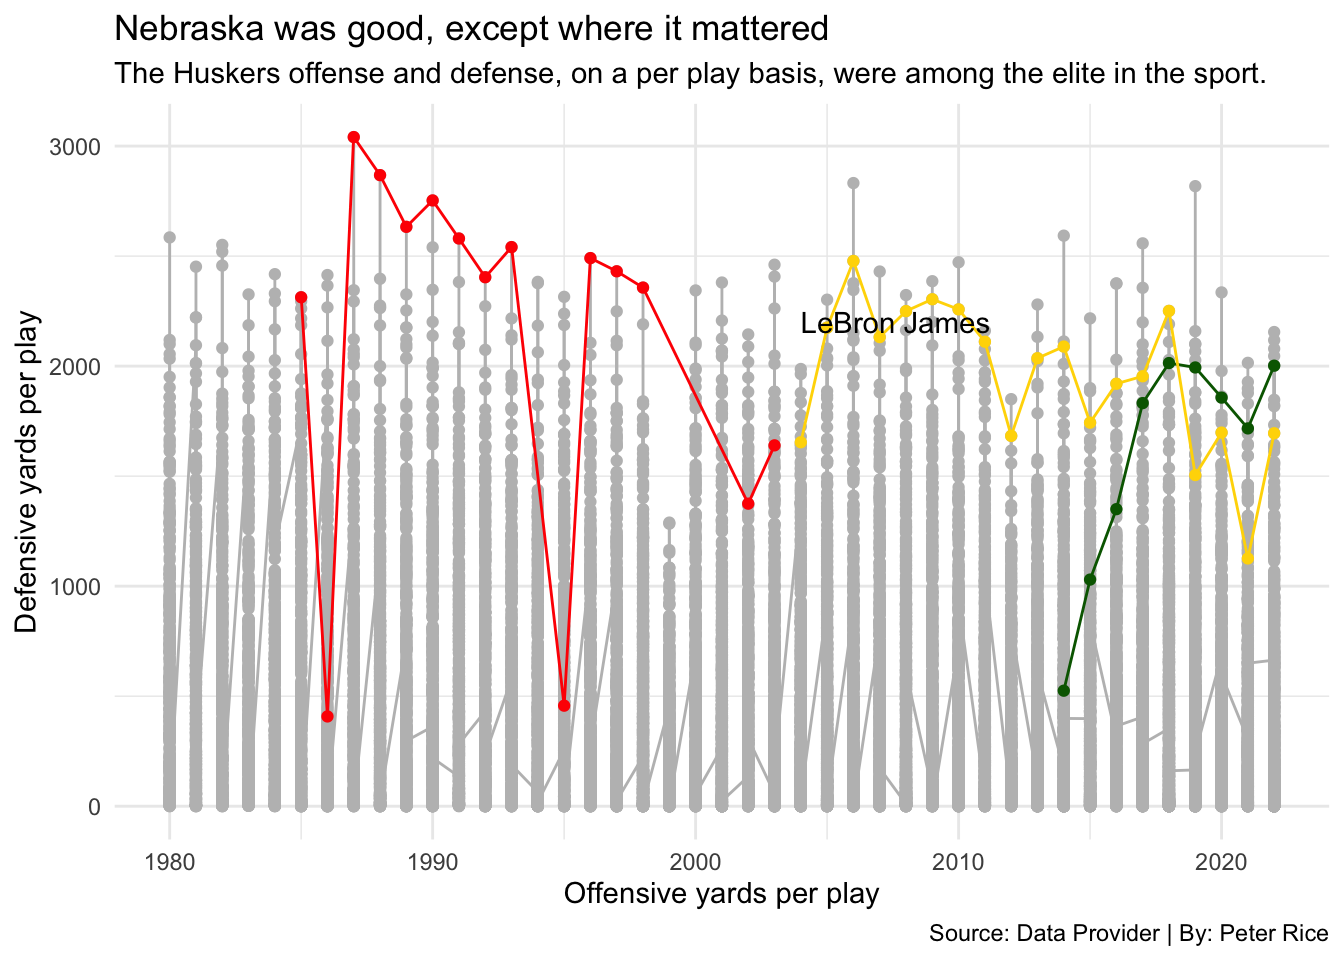
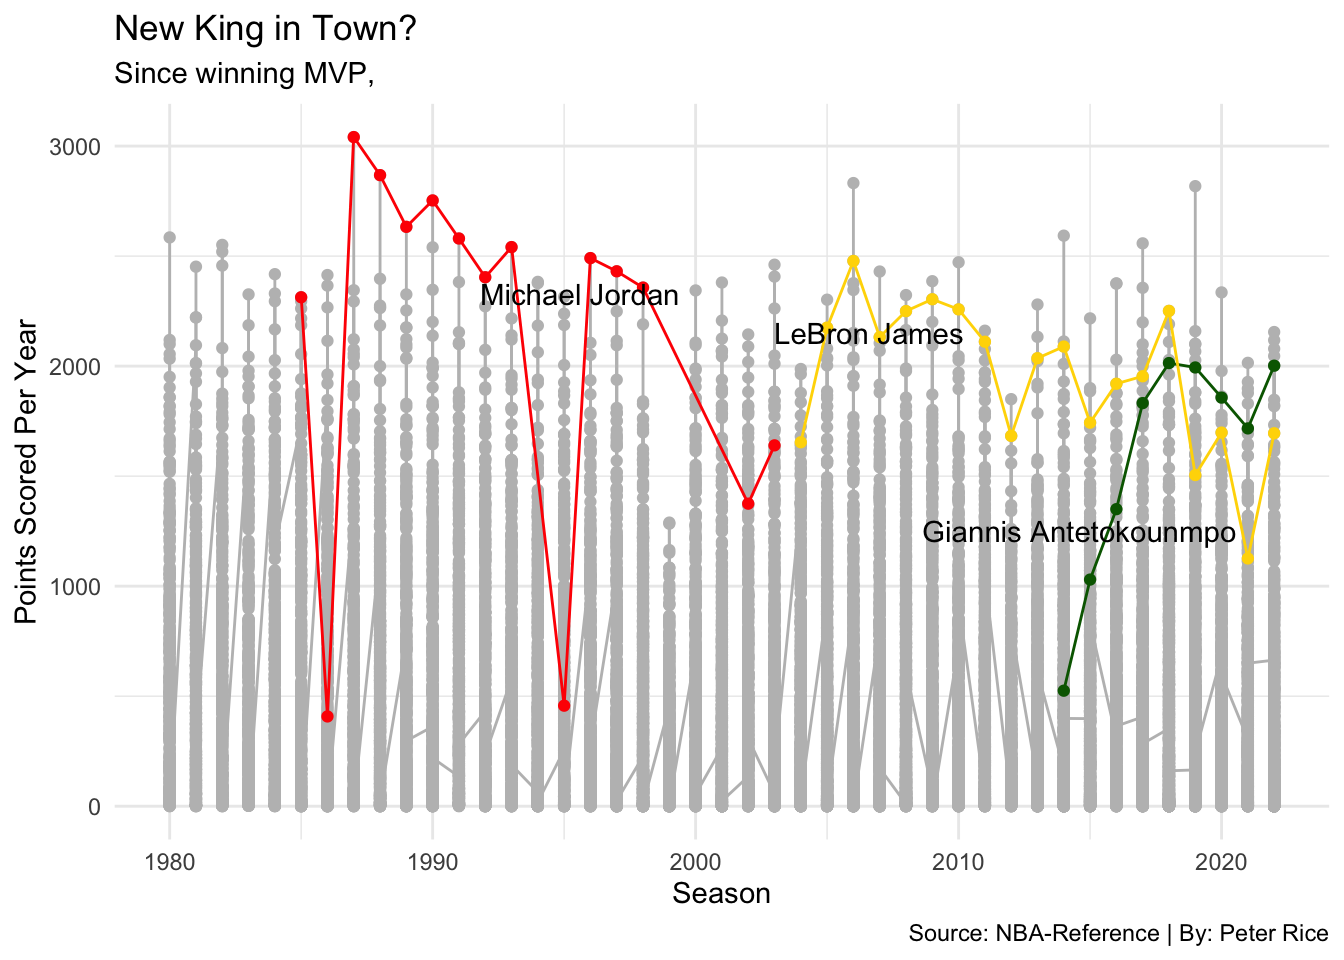
go

diff --git a/posts/giannis-could-be-the-goat/index.html b/posts/giannis-could-be-the-goat/index.html
@@ -219,36 +219,45 @@ code span.wa { color: #60a0b0; font-weight: bold; font-style: italic; } /* Warni
 <span id="cb1-6"><a href="#cb1-6" aria-hidden="true" tabindex="-1"></a></span>
 <span id="cb1-7"><a href="#cb1-7" aria-hidden="true" tabindex="-1"></a></span>
 <span id="cb1-8"><a href="#cb1-8" aria-hidden="true" tabindex="-1"></a>mj <span class="ot">&lt;-</span> allplayers <span class="sc">%&gt;%</span> <span class="fu">filter</span>(Player <span class="sc">==</span> <span class="st">"Michael Jordan"</span>)</span>
-<span id="cb1-9"><a href="#cb1-9" aria-hidden="true" tabindex="-1"></a></span>
-<span id="cb1-10"><a href="#cb1-10" aria-hidden="true" tabindex="-1"></a>lbj <span class="ot">&lt;-</span> allplayers <span class="sc">%&gt;%</span> <span class="fu">filter</span>(Player <span class="sc">==</span> <span class="st">"LeBron James"</span>)</span>
-<span id="cb1-11"><a href="#cb1-11" aria-hidden="true" tabindex="-1"></a>lbj2 <span class="ot">&lt;-</span> lbj <span class="sc">%&gt;%</span> <span class="fu">filter</span>(Season <span class="sc">==</span> <span class="dv">2009</span>)</span>
-<span id="cb1-12"><a href="#cb1-12" aria-hidden="true" tabindex="-1"></a></span>
-<span id="cb1-13"><a href="#cb1-13" aria-hidden="true" tabindex="-1"></a>ga <span class="ot">&lt;-</span> allplayers <span class="sc">%&gt;%</span> <span class="fu">filter</span>(Player <span class="sc">==</span> <span class="st">"Giannis Antetokounmpo"</span>)</span>
-<span id="cb1-14"><a href="#cb1-14" aria-hidden="true" tabindex="-1"></a></span>
-<span id="cb1-15"><a href="#cb1-15" aria-hidden="true" tabindex="-1"></a></span>
+<span id="cb1-9"><a href="#cb1-9" aria-hidden="true" tabindex="-1"></a>mj2 <span class="ot">&lt;-</span> mj <span class="sc">%&gt;%</span> <span class="fu">filter</span>(Season <span class="sc">==</span> <span class="dv">1997</span>)</span>
+<span id="cb1-10"><a href="#cb1-10" aria-hidden="true" tabindex="-1"></a></span>
+<span id="cb1-11"><a href="#cb1-11" aria-hidden="true" tabindex="-1"></a>lbj <span class="ot">&lt;-</span> allplayers <span class="sc">%&gt;%</span> <span class="fu">filter</span>(Player <span class="sc">==</span> <span class="st">"LeBron James"</span>)</span>
+<span id="cb1-12"><a href="#cb1-12" aria-hidden="true" tabindex="-1"></a>lbj2 <span class="ot">&lt;-</span> lbj <span class="sc">%&gt;%</span> <span class="fu">filter</span>(Season <span class="sc">==</span> <span class="dv">2008</span>)</span>
+<span id="cb1-13"><a href="#cb1-13" aria-hidden="true" tabindex="-1"></a></span>
+<span id="cb1-14"><a href="#cb1-14" aria-hidden="true" tabindex="-1"></a>ga <span class="ot">&lt;-</span> allplayers <span class="sc">%&gt;%</span> <span class="fu">filter</span>(Player <span class="sc">==</span> <span class="st">"Giannis Antetokounmpo"</span>)</span>
+<span id="cb1-15"><a href="#cb1-15" aria-hidden="true" tabindex="-1"></a>ga2 <span class="ot">&lt;-</span> ga <span class="sc">%&gt;%</span> <span class="fu">filter</span>(Season <span class="sc">==</span> <span class="dv">2016</span>)</span>
 <span id="cb1-16"><a href="#cb1-16" aria-hidden="true" tabindex="-1"></a></span>
-<span id="cb1-17"><a href="#cb1-17" aria-hidden="true" tabindex="-1"></a><span class="fu">ggplot</span>() <span class="sc">+</span> </span>
-<span id="cb1-18"><a href="#cb1-18" aria-hidden="true" tabindex="-1"></a>  <span class="fu">geom_line</span>(<span class="at">data=</span>allplayers, <span class="fu">aes</span>(<span class="at">x=</span>Season, <span class="at">y=</span>PTS), <span class="at">color=</span><span class="st">"grey"</span>) <span class="sc">+</span></span>
-<span id="cb1-19"><a href="#cb1-19" aria-hidden="true" tabindex="-1"></a>  <span class="fu">geom_point</span>(<span class="at">data=</span>allplayers, <span class="fu">aes</span>(<span class="at">x=</span>Season, <span class="at">y=</span>PTS), <span class="at">color=</span><span class="st">"grey"</span>)<span class="sc">+</span> </span>
-<span id="cb1-20"><a href="#cb1-20" aria-hidden="true" tabindex="-1"></a>  <span class="fu">geom_line</span>(<span class="at">data=</span>mj, <span class="fu">aes</span>(<span class="at">x=</span>Season, <span class="at">y=</span>PTS), <span class="at">color=</span><span class="st">"red"</span>) <span class="sc">+</span></span>
-<span id="cb1-21"><a href="#cb1-21" aria-hidden="true" tabindex="-1"></a>  <span class="fu">geom_point</span>(<span class="at">data=</span>mj, <span class="fu">aes</span>(<span class="at">x=</span>Season, <span class="at">y=</span>PTS), <span class="at">color=</span><span class="st">"red"</span>) <span class="sc">+</span> </span>
-<span id="cb1-22"><a href="#cb1-22" aria-hidden="true" tabindex="-1"></a>  <span class="fu">geom_line</span>(<span class="at">data=</span>ga, <span class="fu">aes</span>(<span class="at">x=</span>Season, <span class="at">y=</span>PTS), <span class="at">color=</span><span class="st">"dark green"</span>) <span class="sc">+</span></span>
-<span id="cb1-23"><a href="#cb1-23" aria-hidden="true" tabindex="-1"></a>  <span class="fu">geom_point</span>(<span class="at">data=</span>ga, <span class="fu">aes</span>(<span class="at">x=</span>Season, <span class="at">y=</span>PTS), <span class="at">color=</span><span class="st">"dark green"</span>) <span class="sc">+</span></span>
-<span id="cb1-24"><a href="#cb1-24" aria-hidden="true" tabindex="-1"></a>  <span class="fu">geom_line</span>(<span class="at">data=</span>lbj, <span class="fu">aes</span>(<span class="at">x=</span>Season, <span class="at">y=</span>PTS), <span class="at">color=</span><span class="st">"gold"</span>) <span class="sc">+</span></span>
-<span id="cb1-25"><a href="#cb1-25" aria-hidden="true" tabindex="-1"></a>  <span class="fu">geom_point</span>(<span class="at">data=</span>lbj, <span class="fu">aes</span>(<span class="at">x=</span>Season, <span class="at">y=</span>PTS), <span class="at">color=</span><span class="st">"gold"</span>) <span class="sc">+</span></span>
-<span id="cb1-26"><a href="#cb1-26" aria-hidden="true" tabindex="-1"></a>  <span class="fu">geom_text_repel</span>(</span>
-<span id="cb1-27"><a href="#cb1-27" aria-hidden="true" tabindex="-1"></a>    <span class="at">data=</span>lbj2, </span>
-<span id="cb1-28"><a href="#cb1-28" aria-hidden="true" tabindex="-1"></a>    <span class="fu">aes</span>(<span class="at">x=</span>Season, <span class="at">y=</span>PTS, <span class="at">label=</span>Player)</span>
-<span id="cb1-29"><a href="#cb1-29" aria-hidden="true" tabindex="-1"></a>  ) <span class="sc">+</span></span>
-<span id="cb1-30"><a href="#cb1-30" aria-hidden="true" tabindex="-1"></a>  <span class="fu">scale_x_continuous</span>() <span class="sc">+</span></span>
-<span id="cb1-31"><a href="#cb1-31" aria-hidden="true" tabindex="-1"></a>  <span class="fu">theme_minimal</span>() <span class="sc">+</span> </span>
-<span id="cb1-32"><a href="#cb1-32" aria-hidden="true" tabindex="-1"></a>  <span class="fu">labs</span>(</span>
-<span id="cb1-33"><a href="#cb1-33" aria-hidden="true" tabindex="-1"></a>    <span class="at">x=</span><span class="st">"Offensive yards per play"</span>, </span>
-<span id="cb1-34"><a href="#cb1-34" aria-hidden="true" tabindex="-1"></a>    <span class="at">y=</span><span class="st">"Defensive yards per play"</span>, </span>
-<span id="cb1-35"><a href="#cb1-35" aria-hidden="true" tabindex="-1"></a>    <span class="at">title=</span><span class="st">"Nebraska was good, except where it mattered"</span>, </span>
-<span id="cb1-36"><a href="#cb1-36" aria-hidden="true" tabindex="-1"></a>    <span class="at">subtitle=</span><span class="st">"The Huskers offense and defense, on a per play basis, were among the elite in the sport."</span>, </span>
-<span id="cb1-37"><a href="#cb1-37" aria-hidden="true" tabindex="-1"></a>    <span class="at">caption=</span><span class="st">"Source: Data Provider | By: Peter Rice"</span></span>
-<span id="cb1-38"><a href="#cb1-38" aria-hidden="true" tabindex="-1"></a>    )</span></code><button title="Copy to Clipboard" class="code-copy-button"><i class="bi"></i></button></pre></div>
+<span id="cb1-17"><a href="#cb1-17" aria-hidden="true" tabindex="-1"></a></span>
+<span id="cb1-18"><a href="#cb1-18" aria-hidden="true" tabindex="-1"></a><span class="fu">ggplot</span>() <span class="sc">+</span> </span>
+<span id="cb1-19"><a href="#cb1-19" aria-hidden="true" tabindex="-1"></a>  <span class="fu">geom_line</span>(<span class="at">data=</span>allplayers, <span class="fu">aes</span>(<span class="at">x=</span>Season, <span class="at">y=</span>PTS), <span class="at">color=</span><span class="st">"grey"</span>) <span class="sc">+</span></span>
+<span id="cb1-20"><a href="#cb1-20" aria-hidden="true" tabindex="-1"></a>  <span class="fu">geom_point</span>(<span class="at">data=</span>allplayers, <span class="fu">aes</span>(<span class="at">x=</span>Season, <span class="at">y=</span>PTS), <span class="at">color=</span><span class="st">"grey"</span>)<span class="sc">+</span> </span>
+<span id="cb1-21"><a href="#cb1-21" aria-hidden="true" tabindex="-1"></a>  <span class="fu">geom_line</span>(<span class="at">data=</span>mj, <span class="fu">aes</span>(<span class="at">x=</span>Season, <span class="at">y=</span>PTS), <span class="at">color=</span><span class="st">"red"</span>) <span class="sc">+</span></span>
+<span id="cb1-22"><a href="#cb1-22" aria-hidden="true" tabindex="-1"></a>  <span class="fu">geom_point</span>(<span class="at">data=</span>mj, <span class="fu">aes</span>(<span class="at">x=</span>Season, <span class="at">y=</span>PTS), <span class="at">color=</span><span class="st">"red"</span>) <span class="sc">+</span> </span>
+<span id="cb1-23"><a href="#cb1-23" aria-hidden="true" tabindex="-1"></a>  <span class="fu">geom_line</span>(<span class="at">data=</span>ga, <span class="fu">aes</span>(<span class="at">x=</span>Season, <span class="at">y=</span>PTS), <span class="at">color=</span><span class="st">"dark green"</span>) <span class="sc">+</span></span>
+<span id="cb1-24"><a href="#cb1-24" aria-hidden="true" tabindex="-1"></a>  <span class="fu">geom_point</span>(<span class="at">data=</span>ga, <span class="fu">aes</span>(<span class="at">x=</span>Season, <span class="at">y=</span>PTS), <span class="at">color=</span><span class="st">"dark green"</span>) <span class="sc">+</span></span>
+<span id="cb1-25"><a href="#cb1-25" aria-hidden="true" tabindex="-1"></a>  <span class="fu">geom_line</span>(<span class="at">data=</span>lbj, <span class="fu">aes</span>(<span class="at">x=</span>Season, <span class="at">y=</span>PTS), <span class="at">color=</span><span class="st">"gold"</span>) <span class="sc">+</span></span>
+<span id="cb1-26"><a href="#cb1-26" aria-hidden="true" tabindex="-1"></a>  <span class="fu">geom_point</span>(<span class="at">data=</span>lbj, <span class="fu">aes</span>(<span class="at">x=</span>Season, <span class="at">y=</span>PTS), <span class="at">color=</span><span class="st">"gold"</span>)<span class="sc">+</span>  </span>
+<span id="cb1-27"><a href="#cb1-27" aria-hidden="true" tabindex="-1"></a>  <span class="fu">geom_text_repel</span>(</span>
+<span id="cb1-28"><a href="#cb1-28" aria-hidden="true" tabindex="-1"></a>    <span class="at">data=</span>mj2, </span>
+<span id="cb1-29"><a href="#cb1-29" aria-hidden="true" tabindex="-1"></a>    <span class="fu">aes</span>(<span class="at">x=</span>Season, <span class="at">y=</span>PTS, <span class="at">label=</span>Player)</span>
+<span id="cb1-30"><a href="#cb1-30" aria-hidden="true" tabindex="-1"></a>  ) <span class="sc">+</span></span>
+<span id="cb1-31"><a href="#cb1-31" aria-hidden="true" tabindex="-1"></a>  <span class="fu">geom_text_repel</span>(</span>
+<span id="cb1-32"><a href="#cb1-32" aria-hidden="true" tabindex="-1"></a>    <span class="at">data=</span>lbj2, </span>
+<span id="cb1-33"><a href="#cb1-33" aria-hidden="true" tabindex="-1"></a>    <span class="fu">aes</span>(<span class="at">x=</span>Season, <span class="at">y=</span>PTS, <span class="at">label=</span>Player)</span>
+<span id="cb1-34"><a href="#cb1-34" aria-hidden="true" tabindex="-1"></a>  ) <span class="sc">+</span> </span>
+<span id="cb1-35"><a href="#cb1-35" aria-hidden="true" tabindex="-1"></a>  <span class="fu">geom_text_repel</span>(</span>
+<span id="cb1-36"><a href="#cb1-36" aria-hidden="true" tabindex="-1"></a>    <span class="at">data=</span>ga2, </span>
+<span id="cb1-37"><a href="#cb1-37" aria-hidden="true" tabindex="-1"></a>    <span class="fu">aes</span>(<span class="at">x=</span>Season, <span class="at">y=</span>PTS, <span class="at">label=</span>Player)</span>
+<span id="cb1-38"><a href="#cb1-38" aria-hidden="true" tabindex="-1"></a>  ) <span class="sc">+</span></span>
+<span id="cb1-39"><a href="#cb1-39" aria-hidden="true" tabindex="-1"></a>  <span class="fu">scale_x_continuous</span>() <span class="sc">+</span></span>
+<span id="cb1-40"><a href="#cb1-40" aria-hidden="true" tabindex="-1"></a>  <span class="fu">theme_minimal</span>() <span class="sc">+</span> </span>
+<span id="cb1-41"><a href="#cb1-41" aria-hidden="true" tabindex="-1"></a>  <span class="fu">labs</span>(</span>
+<span id="cb1-42"><a href="#cb1-42" aria-hidden="true" tabindex="-1"></a>    <span class="at">x=</span><span class="st">"Season"</span>, </span>
+<span id="cb1-43"><a href="#cb1-43" aria-hidden="true" tabindex="-1"></a>    <span class="at">y=</span><span class="st">"Points Scored Per Year"</span>, </span>
+<span id="cb1-44"><a href="#cb1-44" aria-hidden="true" tabindex="-1"></a>    <span class="at">title=</span><span class="st">"New King in Town?"</span>, </span>
+<span id="cb1-45"><a href="#cb1-45" aria-hidden="true" tabindex="-1"></a>    <span class="at">subtitle=</span><span class="st">"Since winning MVP, "</span>, </span>
+<span id="cb1-46"><a href="#cb1-46" aria-hidden="true" tabindex="-1"></a>    <span class="at">caption=</span><span class="st">"Source: NBA-Reference | By: Peter Rice"</span></span>
+<span id="cb1-47"><a href="#cb1-47" aria-hidden="true" tabindex="-1"></a>    )</span></code><button title="Copy to Clipboard" class="code-copy-button"><i class="bi"></i></button></pre></div>
 </details>
 <div class="cell-output-display">
 <p><img src="index_files/figure-html/unnamed-chunk-1-1.png" class="img-fluid" width="672"></p>

diff --git a/index.html b/index.html
@@ -164,7 +164,7 @@ ul.task-list li input[type="checkbox"] {
 
 <div class="quarto-listing quarto-listing-container-default" id="listing-listing">
 <div class="list quarto-listing-default">
-<div class="quarto-post image-right" data-index="0" data-categories="sports,data,basketball,nba" data-listing-date-sort="1669960800000" data-listing-file-modified-sort="1670188424297" data-listing-reading-time-sort="0.865">
+<div class="quarto-post image-right" data-index="0" data-categories="sports,data,basketball,nba" data-listing-date-sort="1669960800000" data-listing-file-modified-sort="1670204150634" data-listing-reading-time-sort="0.995">
 <div class="thumbnail">
 <p><a href="./posts/giannis-could-be-the-goat/index.html"> <img src="./posts/giannis-could-be-the-goat/image.png" class="thumnail-image"> </a></p>
 </div>
